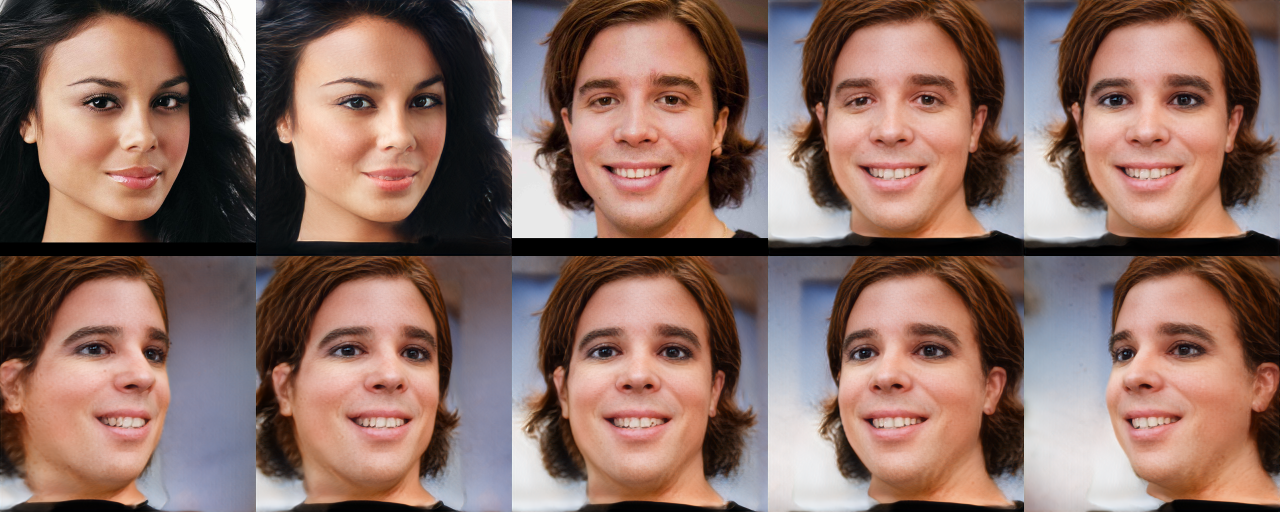
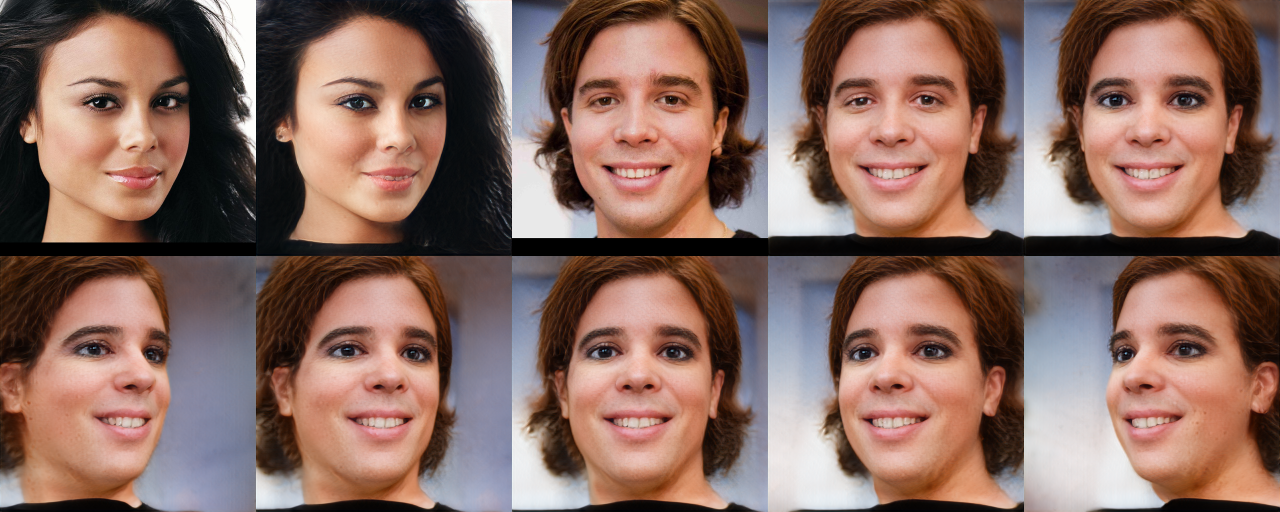
brows&multi

diff --git a/training/triplane_editing.py b/training/triplane_editing.py
@@ -383,6 +383,17 @@ class TriplaneEditingPipeline:
             M_dst = 1-dilated_src_tp_mask
             M_man = 0
             w_sr = w_dst
+        elif edit_label == 'brows':
+            man_fused_tp, t_mask_src, t_mask_dst = self.forward_manual_fusion(w_src, t_src, w_dst, t_dst, self.decoder, self.masking_net,
+                                                                              src_roi_ch=self.attribute_chs['brows'], dst_roi_ch=None,
+                                                                              smooth_tp=True, use_dst_mask_in_src=False, invert_src_mask=False, invert_dst_mask=False)
+            eroded_src_tp_mask, dilated_src_tp_mask = self.create_dilated_eroded_tp_masks(t_mask_src, blur_k_size=7, morph_k_size=7, std_devs=(1.5,1.5))
+            
+            M_src = eroded_src_tp_mask
+            M_imp_mid = dilated_src_tp_mask-eroded_src_tp_mask
+            M_dst = 1-dilated_src_tp_mask
+            M_man = 0
+            w_sr = w_dst
         else:
             raise NotImplementedError
         
@@ -393,6 +404,172 @@ class TriplaneEditingPipeline:
         final_fused_tp = t_src*M_src+imp_fused_tp*M_imp_mid+t_dst*M_dst+man_fused_tp*M_man
 
         return w_sr, final_fused_tp
+    
+    def multi_attribute_edit(self, edit_labels, w_src, t_src, w_dst, t_dst):
+        """
+        Performs multi-attribute editing by combining multiple attribute edits using Parallel fusion.
+        
+        Args:
+            edit_labels: List of attribute labels to edit, e.g., ['eyes', 'brows', 'mouth']
+            w_src: Source W code
+            t_src: Source triplane
+            w_dst: Destination W code
+            t_dst: Destination triplane
+        
+        Returns:
+            w_fused: Fused W code
+            t_fused: Fused triplane
+        """
+        # Parallel fusion: combine all masks and apply once
+        print(f"Applying parallel fusion for: {', '.join(edit_labels)}")
+            
+        # Collect all edited triplanes and masks
+        edited_triplanes = []
+        all_M_src = []
+        all_M_dst = []
+        all_M_imp = []
+        all_M_man = []
+        
+        for edit_label in edit_labels:
+            # Get editing parameters for this attribute
+            if edit_label == 'hair':
+                man_fused_tp, t_mask_src, t_mask_dst = self.forward_manual_fusion(
+                    w_src, t_src, w_dst, t_dst, self.decoder, self.masking_net,
+                    src_roi_ch=self.attribute_chs['hair'], dst_roi_ch=self.attribute_chs['hair'],
+                    smooth_tp=True, invert_src_mask=True, invert_dst_mask=True, use_dst_mask_in_src=True
+                )
+                eroded_src_tp_mask, dilated_src_tp_mask = self.create_dilated_eroded_tp_masks(
+                    t_mask_src, blur_k_size=21, morph_k_size=11, std_devs=(11.0,11.0)
+                )
+                eroded_dst_tp_mask, dilated_dst_tp_mask = self.create_dilated_eroded_tp_masks(
+                    t_mask_dst, blur_k_size=21, morph_k_size=11, std_devs=(11.0,11.0)
+                )
+                M_src = eroded_src_tp_mask
+                M_imp_mid = 1-(eroded_src_tp_mask+eroded_dst_tp_mask)
+                M_dst = eroded_dst_tp_mask
+                M_man = 0
+                
+            elif edit_label == 'glasses':
+                man_fused_tp, t_mask_src, t_mask_dst = self.forward_manual_fusion(
+                    w_src, t_src, w_dst, t_dst, self.decoder, self.masking_net,
+                    src_roi_ch=self.attribute_chs['glasses'], dst_roi_ch=None,
+                    smooth_tp=False, use_dst_mask_in_src=False, invert_src_mask=False, invert_dst_mask=False,
+                    w_guidance_dir=self.w_glasses, w_guidance_factor=1.5
+                )
+                eroded_src_tp_mask, dilated_src_tp_mask = self.create_dilated_eroded_tp_masks(
+                    t_mask_src, blur_k_size=31, morph_k_size=3, std_devs=(9.0,9.0)
+                )
+                M_src = 0
+                M_imp_mid = (dilated_src_tp_mask-eroded_src_tp_mask)
+                M_dst = 1-dilated_src_tp_mask
+                M_man = eroded_src_tp_mask
+                
+            elif edit_label == 'eyes':
+                man_fused_tp, t_mask_src, t_mask_dst = self.forward_manual_fusion(
+                    w_src, t_src, w_dst, t_dst, self.decoder, self.masking_net,
+                    src_roi_ch=self.attribute_chs['eyes'], dst_roi_ch=None,
+                    smooth_tp=True, use_dst_mask_in_src=False, invert_src_mask=False, invert_dst_mask=False
+                )
+                eroded_src_tp_mask, dilated_src_tp_mask = self.create_dilated_eroded_tp_masks(
+                    t_mask_src, blur_k_size=9, morph_k_size=11, std_devs=(2.0,2.0)
+                )
+                M_src = eroded_src_tp_mask
+                M_imp_mid = dilated_src_tp_mask-eroded_src_tp_mask
+                M_dst = 1-dilated_src_tp_mask
+                M_man = 0
+                
+            elif edit_label == 'mouth':
+                man_fused_tp, t_mask_src, t_mask_dst = self.forward_manual_fusion(
+                    w_src, t_src, w_dst, t_dst, self.decoder, self.masking_net,
+                    src_roi_ch=self.attribute_chs['mouth'], dst_roi_ch=None,
+                    smooth_tp=True, use_dst_mask_in_src=False, invert_src_mask=False, invert_dst_mask=False
+                )
+                eroded_src_tp_mask, dilated_src_tp_mask = self.create_dilated_eroded_tp_masks(
+                    t_mask_src, blur_k_size=21, morph_k_size=11, std_devs=(2.0,2.0)
+                )
+                M_src = eroded_src_tp_mask
+                M_imp_mid = dilated_src_tp_mask-eroded_src_tp_mask
+                M_dst = 1-dilated_src_tp_mask
+                M_man = 0
+                
+            elif edit_label == 'nose':
+                man_fused_tp, t_mask_src, t_mask_dst = self.forward_manual_fusion(
+                    w_src, t_src, w_dst, t_dst, self.decoder, self.masking_net,
+                    src_roi_ch=self.attribute_chs['nose'], dst_roi_ch=self.attribute_chs['eyes'],
+                    use_dst_mask_in_src=True, invert_src_mask=False, invert_dst_mask=True
+                )
+                eroded_src_tp_mask, dilated_src_tp_mask = self.create_dilated_eroded_tp_masks(
+                    t_mask_src, blur_k_size=21, morph_k_size=11, std_devs=(9.0,9.0)
+                )
+                M_src = 0
+                M_imp_mid = dilated_src_tp_mask
+                M_dst = 1-dilated_src_tp_mask
+                M_man = 0
+                
+            elif edit_label == 'brows':
+                man_fused_tp, t_mask_src, t_mask_dst = self.forward_manual_fusion(
+                    w_src, t_src, w_dst, t_dst, self.decoder, self.masking_net,
+                    src_roi_ch=self.attribute_chs['brows'], dst_roi_ch=None,
+                    smooth_tp=True, use_dst_mask_in_src=False, invert_src_mask=False, invert_dst_mask=False
+                )
+                eroded_src_tp_mask, dilated_src_tp_mask = self.create_dilated_eroded_tp_masks(
+                    t_mask_src, blur_k_size=7, morph_k_size=7, std_devs=(1.5,1.5)
+                )
+                M_src = eroded_src_tp_mask
+                M_imp_mid = dilated_src_tp_mask-eroded_src_tp_mask
+                M_dst = 1-dilated_src_tp_mask
+                M_man = 0
+            else:
+                raise NotImplementedError(f"Attribute {edit_label} not implemented")
+            
+            # Collect masks - ensure all are tensors (not int 0)
+            # Convert scalar 0 to zero tensor with same shape as other masks
+            if isinstance(M_src, int) and M_src == 0:
+                M_src = torch.zeros_like(M_dst if isinstance(M_dst, torch.Tensor) else M_imp_mid)
+            if isinstance(M_dst, int) and M_dst == 0:
+                M_dst = torch.zeros_like(M_src if isinstance(M_src, torch.Tensor) else M_imp_mid)
+            if isinstance(M_imp_mid, int) and M_imp_mid == 0:
+                M_imp_mid = torch.zeros_like(M_src if isinstance(M_src, torch.Tensor) else M_dst)
+            if isinstance(M_man, int) and M_man == 0:
+                M_man = torch.zeros_like(M_src if isinstance(M_src, torch.Tensor) else M_dst)
+            
+            all_M_src.append(M_src)
+            all_M_dst.append(M_dst)
+            all_M_imp.append(M_imp_mid)
+            all_M_man.append(M_man)
+        
+        # Combine masks: take maximum to avoid conflicts
+        combined_M_src = torch.max(torch.stack(all_M_src), dim=0)[0]
+        combined_M_dst = torch.max(torch.stack(all_M_dst), dim=0)[0]
+        combined_M_man = torch.max(torch.stack(all_M_man), dim=0)[0]
+        
+        # For implicit region: areas not covered by src or dst
+        combined_M_imp = 1 - (combined_M_src + combined_M_dst + combined_M_man)
+        combined_M_imp = torch.clamp(combined_M_imp, 0, 1)  # Ensure [0,1]
+        
+        # Normalize masks to sum to 1
+        mask_sum = combined_M_src + combined_M_dst + combined_M_imp + combined_M_man
+        combined_M_src = combined_M_src / (mask_sum + 1e-8)
+        combined_M_dst = combined_M_dst / (mask_sum + 1e-8)
+        combined_M_imp = combined_M_imp / (mask_sum + 1e-8)
+        combined_M_man = combined_M_man / (mask_sum + 1e-8)
+        
+        # Implicit fusion for transition regions
+        w_fused_front, imp_fused_tp = self.forward_implicit_fusion(
+            encoder=self.encoder_frozen, 
+            w_src=w_src, 
+            man_fused_tp=man_fused_tp  # Use last manual fusion
+        )
+        
+        # Final fusion with combined masks
+        final_fused_tp = (
+            t_src * combined_M_src + 
+            imp_fused_tp * combined_M_imp + 
+            t_dst * combined_M_dst + 
+            man_fused_tp * combined_M_man
+        )
+        
+        return w_dst, final_fused_tp
     
     def runtime_E_optim(self, img_256, img_512, c, iter_num=50):
         """
@@ -422,6 +599,11 @@ class TriplaneEditingPipeline:
     def edit_demo(self, input_base_dir, src_name, dst_name, edit_label, runtime_optim):
         """
         Performs reference-based edit, from src_name to dst_name with attribute edit_label.
+        Supports both single and multiple attribute editing.
+        
+        Args:
+            edit_label: Single attribute (e.g., 'eyes') or multiple (e.g., 'eyes,brows,mouth')
+        
         Returns concatenated source, destination, and edited PIL images.
         """
         ## Load imgs from paths and camera matrices from labels.json
@@ -449,12 +631,33 @@ class TriplaneEditingPipeline:
                                                  E1=self.encoder_frozen,
                                                  E2=E2_dst_tuned if runtime_optim else self.encoder_second_stage_frozen)
 
-        ## Editing
-        w_fused, t_fused = self.reference_tp_edit(edit_label=edit_label, 
-                                                  w_src=w_dst if edit_label == 'hair' else w_src, 
-                                                  t_src=t_dst if edit_label == 'hair' else t_src, 
-                                                  w_dst=w_src if edit_label == 'hair' else w_dst, 
-                                                  t_dst=t_src if edit_label == 'hair' else t_dst)
+        ## Editing - Support both single and multi-attribute
+        # Parse edit_label: can be single ('eyes') or multiple ('eyes,brows,mouth')
+        edit_labels = [label.strip() for label in edit_label.split(',')]
+        
+        if len(edit_labels) == 1:
+            # Single attribute editing
+            single_label = edit_labels[0]
+            print(f"Single attribute editing: {single_label}")
+            w_fused, t_fused = self.reference_tp_edit(
+                edit_label=single_label, 
+                w_src=w_dst if single_label == 'hair' else w_src, 
+                t_src=t_dst if single_label == 'hair' else t_src, 
+                w_dst=w_src if single_label == 'hair' else w_dst, 
+                t_dst=t_src if single_label == 'hair' else t_dst
+            )
+            label_str = single_label
+        else:
+            # Multi-attribute editing (always use Parallel strategy)
+            print(f"Multi-attribute editing: {', '.join(edit_labels)}")
+            w_fused, t_fused = self.multi_attribute_edit(
+                edit_labels=edit_labels,
+                w_src=w_src,
+                t_src=t_src,
+                w_dst=w_dst,
+                t_dst=t_dst
+            )
+            label_str = '+'.join(edit_labels)
         
         ## Rendering
         edited = self.synthesise_from_tp(input_w=w_fused, input_tp=t_fused, pose=c_dst, return_triplanes=False)['image']
@@ -471,5 +674,11 @@ class TriplaneEditingPipeline:
         # Row 1 : Src original, src encoded, dst original, dst encoded, edited image rendered from original pose
         # Row 2 : Edited from novel poses 
         all_renders = torch.cat([orig_pose_renders, novel_pose_renders], dim=-2)
-        torchvision.utils.save_image(all_renders, os.path.join(self.outdir,f'{src_name}_{dst_name}_{edit_label}.png'), normalize=True, value_range=(-1,1))
+        
+        # Save with appropriate filename
+        output_filename = f'{src_name}_{dst_name}_{label_str}.png'
+        
+        torchvision.utils.save_image(all_renders, os.path.join(self.outdir, output_filename), normalize=True, value_range=(-1,1))
+        print(f"Saved result to: {os.path.join(self.outdir, output_filename)}")
+        
         return torchvision.transforms.functional.to_pil_image(torch.clip(0.5*(all_renders+1).squeeze(),0,1))

diff --git a/scripts/run_demo.py b/scripts/run_demo.py
@@ -21,7 +21,7 @@ def main():
     ap.add_argument("--input_base_dir", default="example")
     ap.add_argument("--src", required=True, help="e.g. 79.png")
     ap.add_argument("--dst", required=True, help="e.g. 40.png")
-    ap.add_argument("--label", required=True, help="eyes/hair/mouth/nose ...")
+    ap.add_argument("--label", required=True, help="Single: 'eyes' or Multiple: 'eyes,brows,mouth' (comma-separated)")
     ap.add_argument("--runtime_optim", action="store_true")
     ap.add_argument("--device", default="cuda")
     ap.add_argument("--outdir", default="out")

diff --git a/REPRODUCE_WINDOWS.md b/REPRODUCE_WINDOWS.md
@@ -46,6 +46,7 @@ conda activate triplane_edit310
 安装依赖（按仓库提供的 requirements / instructions）：
 
 ```bash
+pip3 install --pre torch torchvision --index-url https://download.pytorch.org/whl/nightly/cu128
 pip install -r requirements.txt
 ```
 
@@ -79,6 +80,8 @@ checkpoints/
   encoder_FFHQ_finetuned.pt
   afa_FFHQ.pt
   79999_iter.pth
+  encoder_FFHQ.pt
+  model_ir_se50.pth
 ```
 
 检查：
